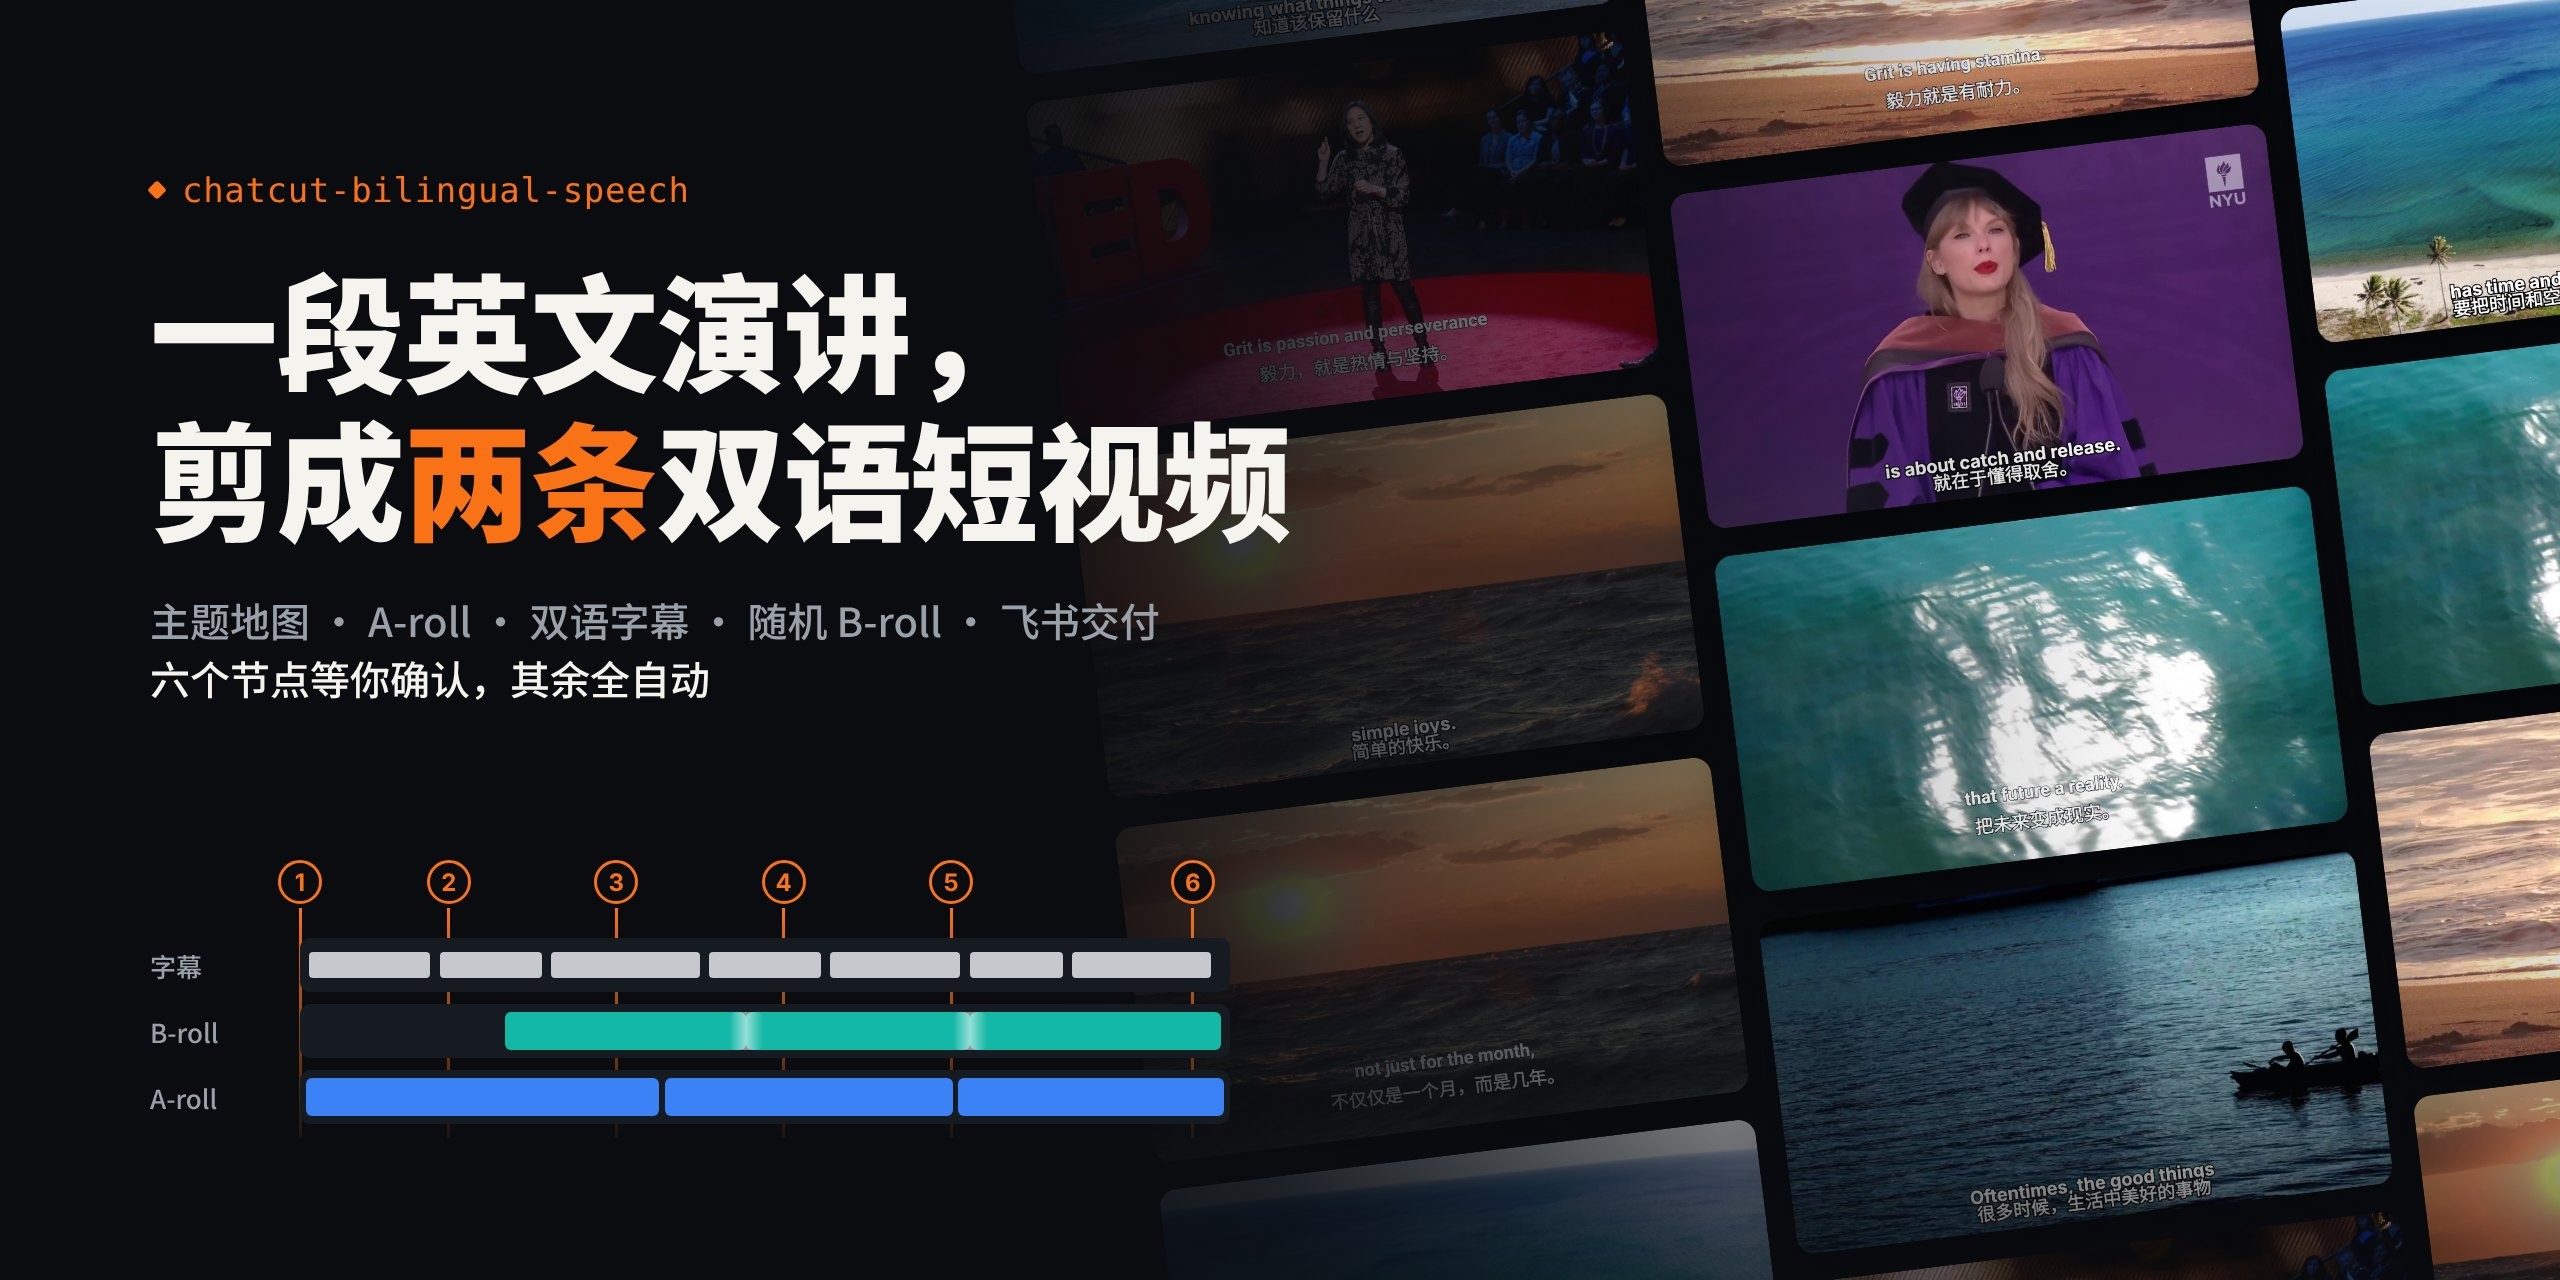
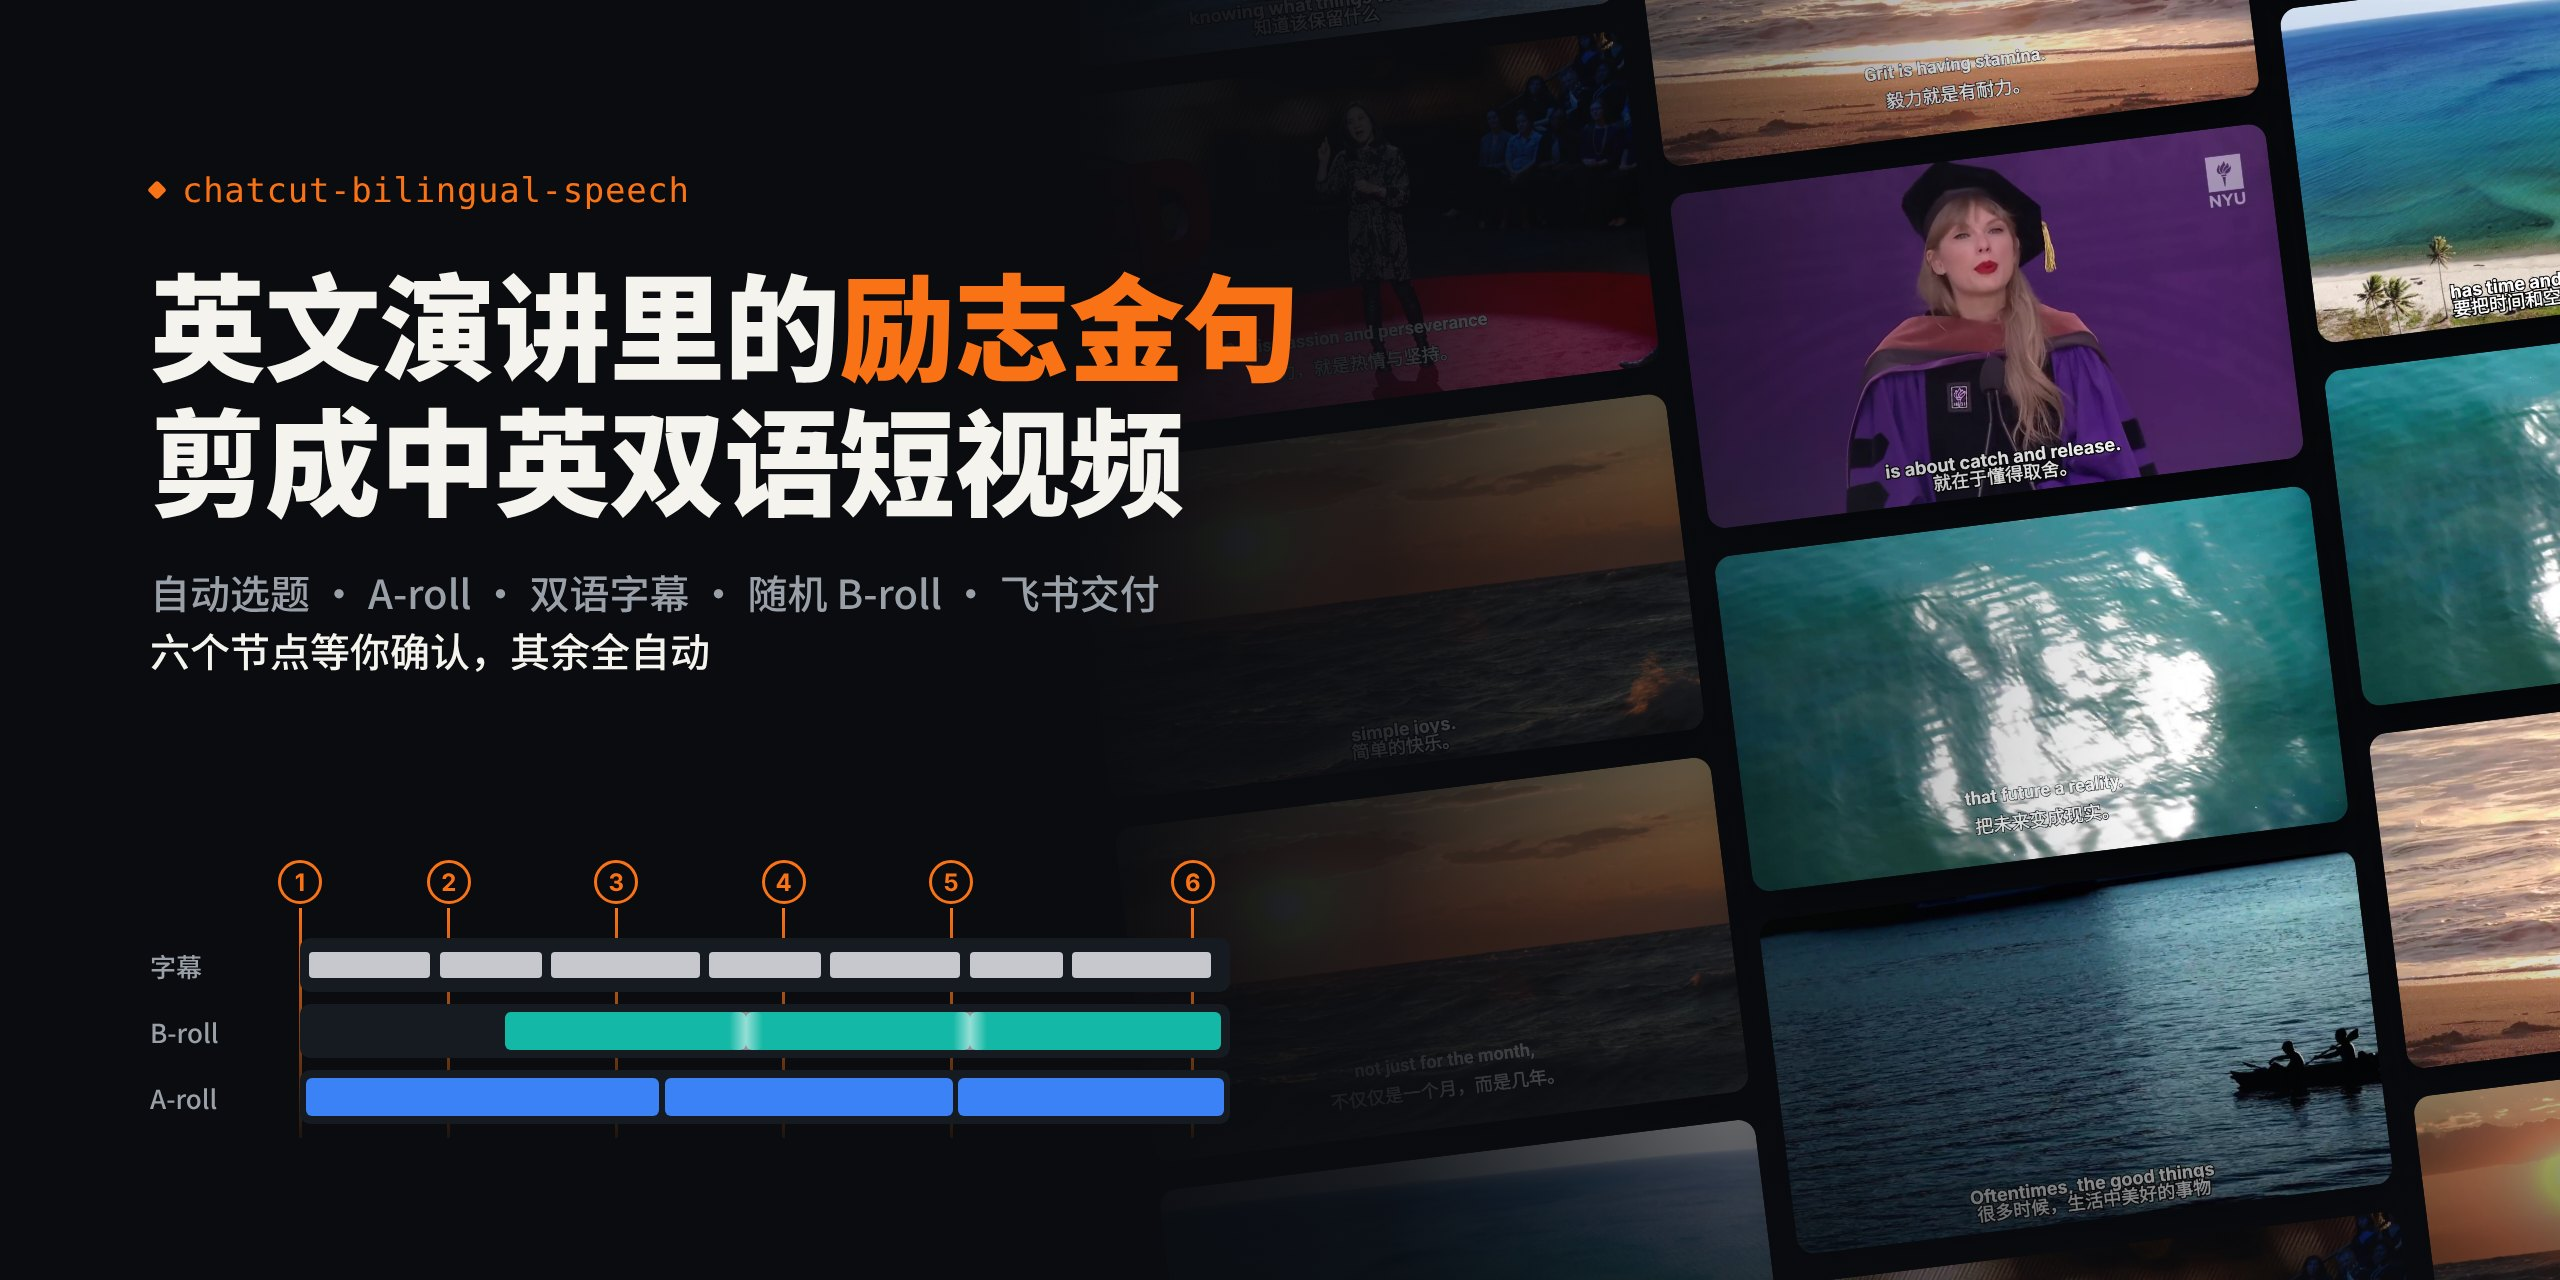
docs: 定位改为英语励志金句短视频，弱化「两条」数量
Claude-Session: https://claude.ai/code/session_01AAQ3RUjUYtLrRH7kvCAjdn

diff --git a/README.md b/README.md
@@ -1,9 +1,9 @@
 <a name="readme-top"></a>
 
 <div align="center">
-  <img src="assets/banner-zh.jpg" alt="chatcut-bilingual-speech 头图：深色背景上铺满双语成片画面，左侧标题「一段英文演讲，剪成两条双语短视频」，下方是带六个确认节点的字幕、B-roll、A-roll 三轨时间轴示意" width="880">
+  <img src="assets/banner-zh.jpg" alt="chatcut-bilingual-speech 头图：深色背景上铺满双语成片画面，左侧标题「英文演讲里的励志金句，剪成中英双语短视频」，下方是带六个确认节点的字幕、B-roll、A-roll 三轨时间轴示意" width="880">
 
-  <p><strong>一段英文演讲，剪成两条中英双语短视频</strong><br>
+  <p><strong>把英文演讲里的励志金句，剪成中英双语短视频</strong><br>
   <sub>可编辑时间轴，不出扁平成片 · 六个节点等你确认 · 交付核验后才算完成</sub></p>
 
   <p>
@@ -30,7 +30,7 @@
 
 ## 能做什么
 
-- **从一段演讲里提两个主题**：读取带时间码的字幕或转写稿，提炼两个互不重复、单独成立的主题，每个片段都给出源时间段、英文原文、中文翻译和拼接风险。时间码不可靠就不进剪辑。
+- **从演讲里挖出励志金句**：读取带时间码的字幕或转写稿，围绕最有力量的观点提炼主题（默认两个，可指定数量），每个主题都单独成立、彼此不重复，只留钩子、核心论点和收束；每个片段都给出源时间段、英文原文、中文翻译和拼接风险。时间码不可靠就不进剪辑。
 - **全程在 ChatCut 里剪**：A-roll、双语字幕、B-roll、导出都落在可编辑的 ChatCut 时间轴上，随时能打开改，不用本地渲染的扁平视频代替。
 - **字幕排版有硬规则**：英上中下、白色粗体黑描边、每种语言最多一行；放不下就按语义和停顿拆成连续字幕，绝不缩字号、压字距或改写英文原话。
 - **B-roll 随机但不重复**：只按 Google Drive 子文件夹名（如「雨夜城市街道」）挑分类，再随机无放回抽取，两条视频之间按文件 ID 去重，全部静音、叠化衔接，演讲原声一帧不动。
@@ -147,7 +147,7 @@ flowchart LR
 | 节点 | Agent 做什么 | 需要你做的 |
 |---|---|---|
 | **① 源视频** | 核对你给的视频链接或本地文件，顺带收集缺失的素材库和交付位置 | 提供具体视频。只给演讲者、频道或主题不算，Agent 不会自己去搜 |
-| **② 主题地图** | 提炼两个独立主题：源时间段、英文原文、中文翻译、片段作用、拼接顺序、断句和指代风险 | 确认地图。不确认不会进 ChatCut |
+| **② 主题地图** | 提炼互不重复的金句主题（默认两个）：源时间段、英文原文、中文翻译、片段作用、拼接顺序、断句和指代风险 | 确认地图。不确认不会进 ChatCut |
 | **③ A-roll** | 在 ChatCut 建时间轴，按地图剪辑，保留原声、不加 BGM，默认 1920×1080 / 30fps | 在 ChatCut 里审片 |
 | **④ 双语字幕** | 出样式样张并铺满全片字幕，按实际画幅测量每一条是否超行 | 一并确认样式与字幕时间轴 |
 | **⑤ B-roll 切入点** | 问每条视频首次进入 B-roll 的时间；拿到答案后自动抽素材、下载、编排 | 每条给一个秒数、时间码或能唯一定位的台词 |
@@ -162,7 +162,7 @@ flowchart LR
 
 | 场景 | 对 Agent 说 |
 |---|---|
-| 默认两条 | 用 chatcut-bilingual-speech 处理这个视频：`<链接>` |
+| 默认（挑两个主题） | 用 chatcut-bilingual-speech 处理这个视频：`<链接>` |
 | 指定主题和时长 | 用 chatcut-bilingual-speech 处理这个视频，一条讲失败的价值、一条讲专注，每条 60 秒左右：`<链接>` |
 | 只要一条 | 用 chatcut-bilingual-speech 从这个演讲里剪一条双语短视频：`<链接>` |
 | 自带字幕文件 | 用 chatcut-bilingual-speech 处理这个本地视频，配套英文字幕是同目录的 `talk.srt`：`<路径>` |
@@ -249,7 +249,7 @@ B-roll 素材库/            ← folder_url_or_id 指向这里
 
 | 适合 | 不适合 |
 |---|---|
-| 英文演讲、访谈、TED 式单人讲述，想切成中英双语短视频 | 多人快速对谈、需要标注说话人的内容 |
+| 毕业演讲、TED、名人访谈等单人英文讲述，想做成中英双语励志金句短视频 | 多人快速对谈、需要标注说话人的内容 |
 | 有带时间码的字幕，或环境里有转写能力 | 只有纯文本稿、对不上时间码（可以出候选主题，但不会进剪辑） |
 | 想要演讲原声 + 风景 / 情绪类 B-roll 的固定风格 | 需要背景音乐、B-roll 原声或按画面内容精挑素材 |
 | 你有权处理和发布这段视频 | 想让 Agent 帮你找视频、或者替你判断版权 |
